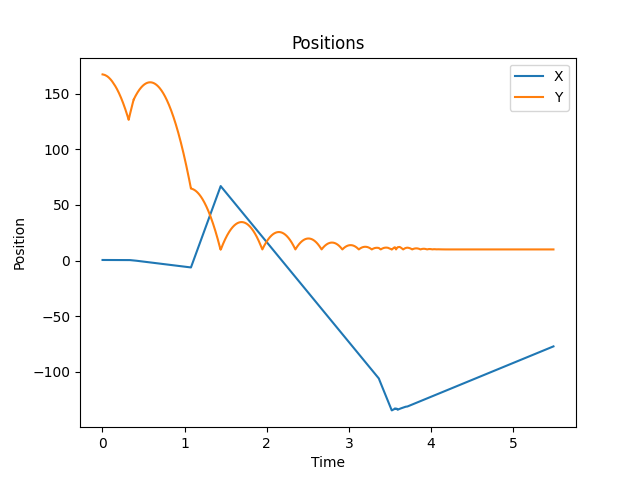
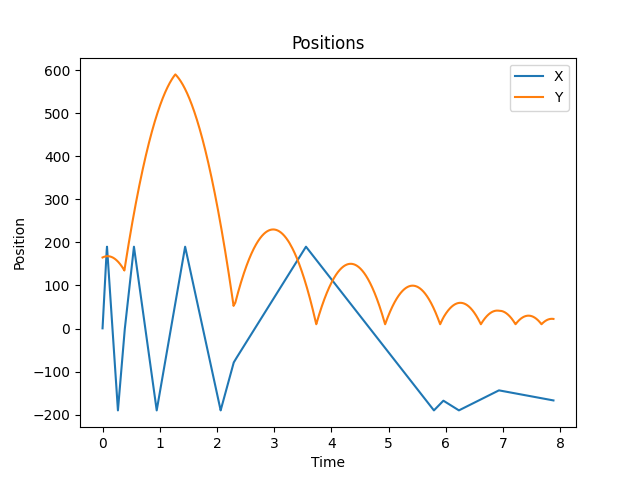
Cambio fondo

diff --git a/Proyecto/Proyecto1.py b/Proyecto/Proyecto1.py
@@ -4,23 +4,23 @@ from Particle import *
 PARAMETERS : List[Particle] = [
 	# name, center, velocity, restitution, radius, mass
 	Particle("0", QPointF(0.5, 180), QPointF(0, 0), 0.8, 5,  2  ),
-	Particle("1", QPointF(0.5, 170), QPointF(0, 0), 0.8, 10, 10 ),
+	Particle("1", QPointF(0.5, 165), QPointF(500, 20), 0.8, 10, 10 ),
 	Particle("2", QPointF(0.5, 130), QPointF(0, 0), 0.8, 20, 25 ),
 	Particle("3", QPointF(0  , 80 ), QPointF(0, 0), 0.7, 30, 40 )
 ]
 
-SIM_TIME = 7.5
+SIM_TIME = 10
 BOUNDING_BOX = QRectF(-200, 0, 400, 600)
 
 class ParticleSimulation(QGraphicsScene):
-	deltas: List[float]
+	time_stamps: List[float]
 	particles: List[Particle]
 	bounding_box: QRectF
 	time = 0
 
 	def __init__(self, parent: QMainWindow):
 		super().__init__(parent)
-		self.deltas = []
+		self.time_stamps = []
 		self.particles = []
 		self.bounding_box = BOUNDING_BOX
 		self.addRect(self.bounding_box)
@@ -43,21 +43,23 @@ class ParticleSimulation(QGraphicsScene):
 	def advance(self, delta_time):
 		self.update_particles(delta_time)
 		self.time += delta_time
-		self.deltas.append(self.time)
+		self.time_stamps.append(self.time)
 
 class MainWindow(QMainWindow):
 	def __init__(self):
 		super().__init__()
 		self.showMaximized()
+		QTimer.singleShot(1000, self.init)
+
 		self.view = QGraphicsView(self)
 		self.simulation = ParticleSimulation(self)
 		self.view.setScene(self.simulation)
 		self.setCentralWidget(self.view)
-
 		transform = QTransform().scale(1.5, -1.5)
 		self.view.translate(0, -self.view.height())
 		self.view.setTransform(transform)
-
+	
+	def init(self):
 		self.timer = QTimer()
 		self.timer.timeout.connect(self.update_scene)
 		self.timer.start(0)
@@ -98,8 +100,8 @@ class MainWindow(QMainWindow):
 				values_x = [val[0] for val in particle.velocities]
 				values_y = [val[1] for val in particle.velocities]
 
-				plt.plot(self.simulation.deltas, values_x, label='X')
-				plt.plot(self.simulation.deltas, values_y, label='Y')
+				plt.plot(self.simulation.time_stamps, values_x, label='X')
+				plt.plot(self.simulation.time_stamps, values_y, label='Y')
 
 				plt.xlabel('Time')
 				plt.ylabel('Velocity')
@@ -111,8 +113,8 @@ class MainWindow(QMainWindow):
 				values_x = [val[0] for val in particle.accelerations]
 				values_y = [val[1] for val in particle.accelerations]
 
-				plt.plot(self.simulation.deltas, values_x, label='X')
-				plt.plot(self.simulation.deltas, values_y, label='Y')
+				plt.plot(self.simulation.time_stamps, values_x, label='X')
+				plt.plot(self.simulation.time_stamps, values_y, label='Y')
 
 				plt.xlabel('Time')
 				plt.ylabel('Acceleration')
@@ -124,8 +126,8 @@ class MainWindow(QMainWindow):
 				values_x = [val[0] for val in particle.positions]
 				values_y = [val[1] for val in particle.positions]
 
-				plt.plot(self.simulation.deltas, values_x, label='X')
-				plt.plot(self.simulation.deltas, values_y, label='Y')
+				plt.plot(self.simulation.time_stamps, values_x, label='X')
+				plt.plot(self.simulation.time_stamps, values_y, label='Y')
 
 				plt.xlabel('Time')
 				plt.ylabel('Position')
@@ -146,4 +148,4 @@ if __name__ == "__main__":
 	if not os.path.exists("./outputs"): os.makedirs("outputs")
 	app = QApplication(sys.argv)
 	window = MainWindow()
-	sys.exit(app.exec())
+	app.exec()
